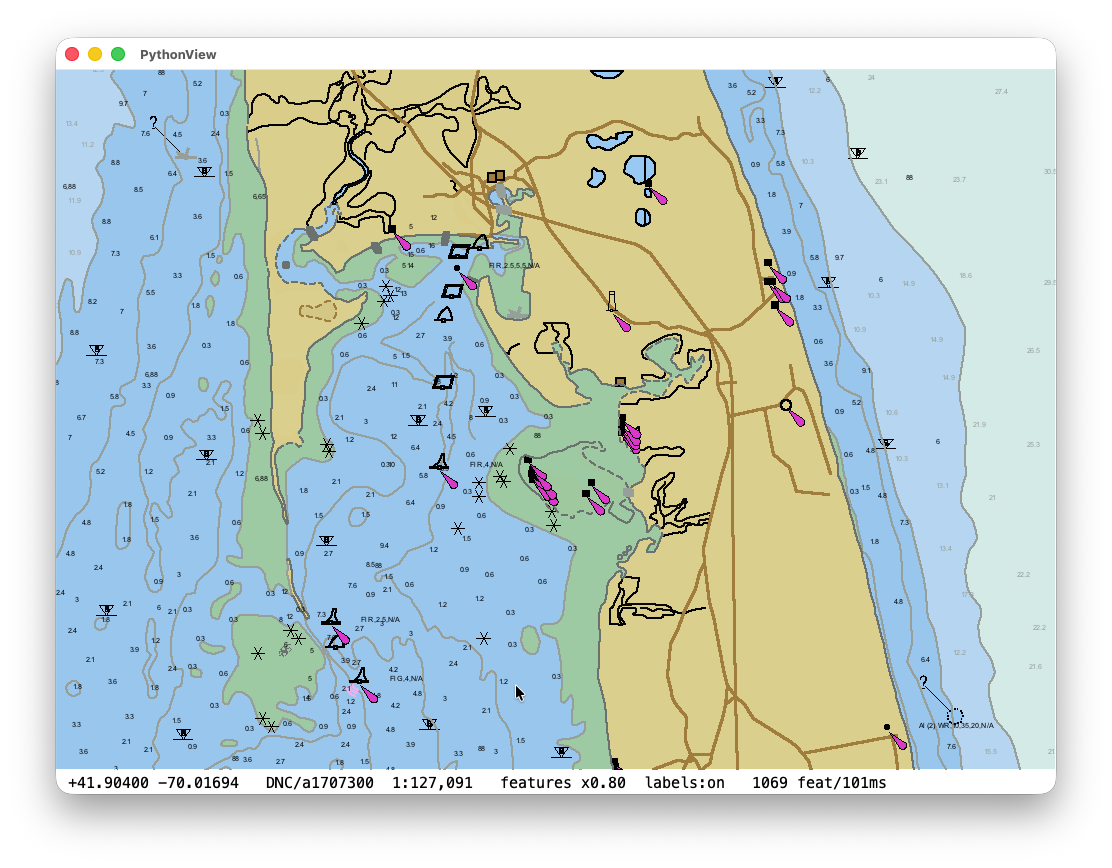
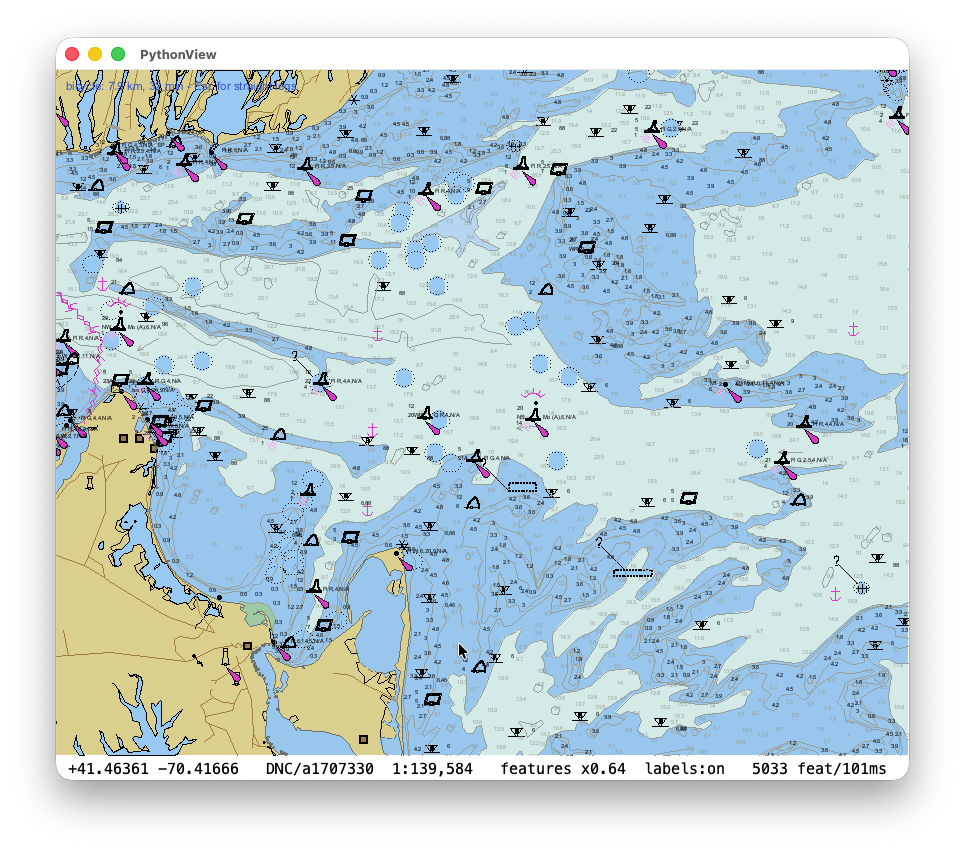
Update Readme

diff --git a/README.md b/README.md
@@ -54,6 +54,7 @@ which is not distributed here (`ctest` reports a skipped test as passing; the
 | Bindings | `pyfvw` (pybind11) — zero-copy NumPy pixel buffers, Python-subclassable overlays, vector sources, style engines, routing and the app layer |
 | Apps | `PythonView.py` — a desktop map viewer over the bindings (family menus, coverage overlay, identify, route editing) |
 | Tools | `fvrender` renders a map to PNG; `fvpack` builds offline GeoPackage tile packs; `fvgraph` builds and queries road graphs |
+| Overlays | Overlay Architecture modeled after the FalconView Overlay Interfaces but implemented in portable C++17, with a type registry and a Python subclassable base class. The overlay stack is headless and testable, and can be used to build a map application shell without Windows dependancies. | 
 
 Render a chart headlessly (needs map data — see *Test data* below):
 
@@ -115,6 +116,7 @@ build the catalog, `--at`/`--series` to open somewhere specific, `--shot` to
 render straight to a PNG.
 
 ### Screenshots
+![Open Street Map](Screenshots/OSM.png)
 ![CADRG](Screenshots/CADRG.png)
 ![DTED](Screenshots/DTED.png)
 ![GeoTIFF](Screenshots/GeoTIFF.png)
